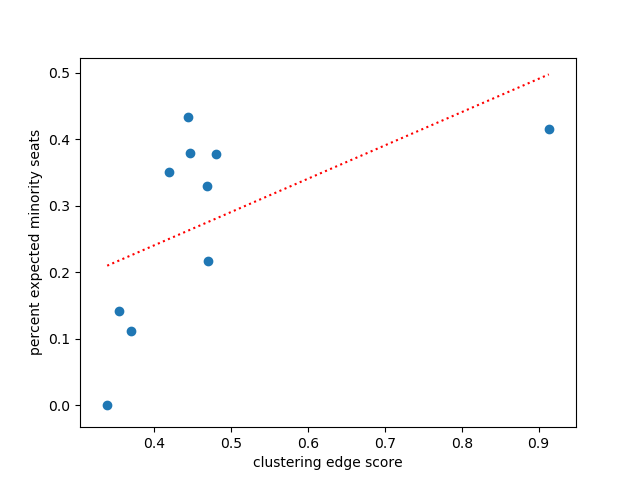
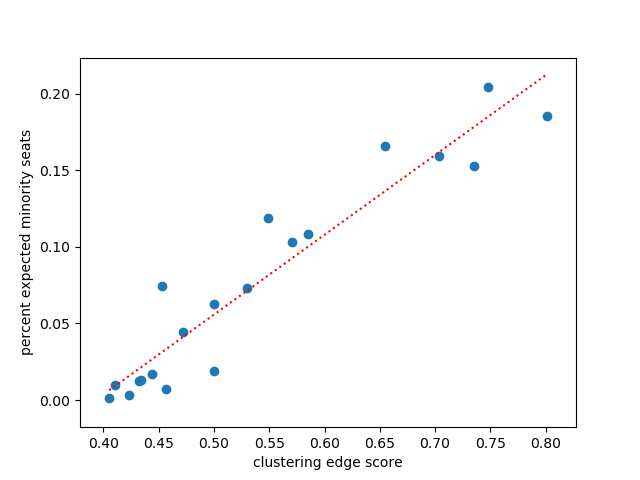
starting to add new scores

diff --git a/skeleton.py b/skeleton.py
@@ -43,14 +43,15 @@ from clustering_scatter_functions import (
 import csv
 import pickle
 
-fileObject = open("10x10_100pernode_40percmin", 'rb')
-dual_graph_list = pickle.load(fileObject)
+fileObject1 = open("10x10_PA_nodepop1_20percmin_expweight", 'rb')
+fileObject2 = open("10x10_PA_nodepop1_20percmin_multweight", 'rb')
+dual_graph_list = pickle.load(fileObject1) + pickle.load(fileObject2)
+print("Dual graph list generated.")
 
 edge_score_list = []
 half_edge_score_list = []
 expected_min_seats_list = []
 
-num_states = 1
 # iterate over states to be plotted
 for dg in dual_graph_list:
 
@@ -68,7 +69,7 @@ for dg in dual_graph_list:
     cdict = {20: "pink", 100: "purple", 0: "hotpink", 70: "blue", 25: "green", 40: "black"}
     plt.figure()
     nx.draw(
-        dg,
+        dg
         pos={x: x for x in dg.nodes()},
         node_color=[cdict[dg.node[x]["MINPOP"]] for x in dg.nodes()],
         node_size=50,
@@ -79,13 +80,13 @@ for dg in dual_graph_list:
 
     # set parameters for ensemble
     num_districts = 10
-    num_steps = 1000
-    tot_pop_col = 'TOTPOP'
-    min_pop_col = 'MINPOP'
-    maj_pop_col = 'MAJPOP'
-    cddict = recursive_tree_part(dg, range(num_districts), 1000, tot_pop_col, 0.001, 1)
+    num_steps = 10000
+    tot_pop_col = 'population'
+    min_pop_col = 'purple'
+    maj_pop_col = 'pink'
+    cddict = recursive_tree_part(dg, range(num_districts), 10, tot_pop_col, 0.001, 1)
     initial_plan = Partition(dg, cddict)
-    print("Set parameters.")
+    print("Parameters set.")
     
     while True:
         
@@ -177,8 +178,8 @@ plt.close()
 #  plot half edge score and expected minority seats
 slope2, intercept2, r_value2, p_value2, std_err2 = scipy.stats.linregress(half_edge_score_list, expected_min_seats_list)
 
-min2 = min(edge_score_list)
-max2 = max(edge_score_list)
+min2 = min(half_edge_score_list)
+max2 = max(half_edge_score_list)
 
 x2 = np.linspace(min2,max2,100)
 y2 = slope2 * x2 + intercept2

diff --git a/clustering_scatter_functions.py b/clustering_scatter_functions.py
@@ -124,10 +124,12 @@ def calculate_clustering_scores(graph, min_pop_col, maj_pop_col, tot_pop_col):
     maj_vect = np.array(graph.node(data=maj_pop_col))[:,1]  #pull out the majority populations and convert them to a vector
     edge_score = capy.edge(min_vect, maj_vect, adj_mat)
     half_edge_score = capy.half_edge(min_vect, maj_vect, adj_mat)
+    morans_I_score = capy.morans_I(min_vect, adj_mat)
 
     output = {}
     output["edge"] = edge_score
     output["half_edge"] = half_edge_score
+    output["morans_I"] = morans_I_score
     
     return output
 
